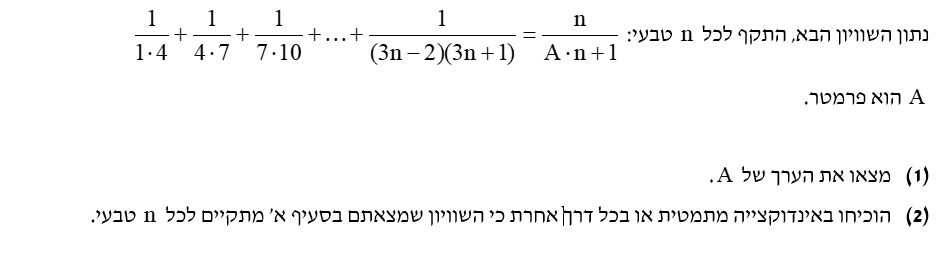
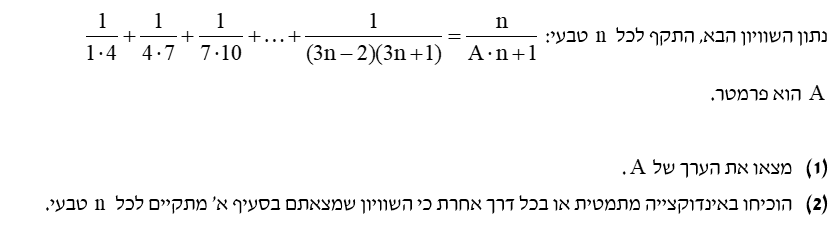
Update bio and add contact section

diff --git a/source/index.rst b/source/index.rst
@@ -21,13 +21,19 @@
 על המחבר
 ---------
 
-אני **אביב בינדר**, בוגר תואר ראשון במדעי המחשב באוניברסיטה הפתוחה.
-
+אני **אביב בינדר**, בוגר תואר ראשון במדעי המחשב באוניברסיטת ת"א
 לפני כן לימדתי מתמטיקה ומדעי המחשב בתיכון, ומשם הגיעה הנטייה לאסוף תרגילים
 טובים ולשמור אותם בצד.
 
 הספר הוא פרויקט מתמשך — נוסף אליו חומר מדי פעם. אם מצאתם טעות או שיש לכם
 תרגיל ששווה להיכנס, אשמח לשמוע.
+
+יצירת קשר
+---------
+
+טלפון: `050-582-2621 <tel:+972505822621>`_
+
+מייל: `avivbinder@gmail.com <mailto:avivbinder@gmail.com>`_
 
 .. toctree::
    :maxdepth: 2
